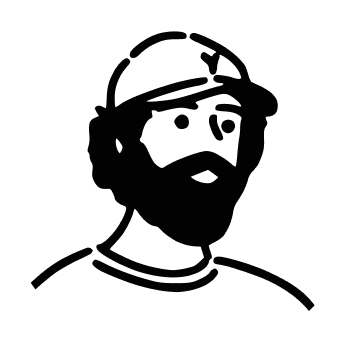
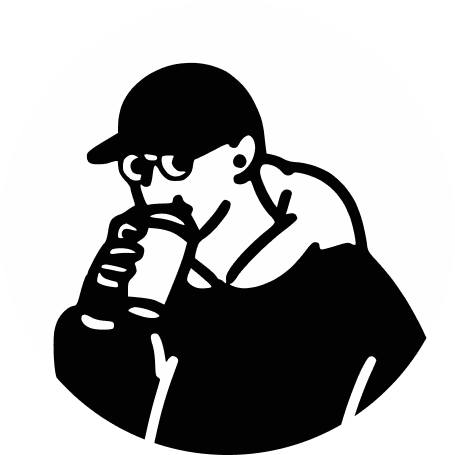
idk

diff --git a/src/components/AnimatedSignature.tsx b/src/components/AnimatedSignature.tsx
@@ -1,0 +1,98 @@
+import React, { useEffect } from 'react';
+import { StyleSheet, View } from 'react-native';
+import Svg, { Path } from 'react-native-svg';
+import Animated, {
+  useSharedValue,
+  useAnimatedProps,
+  withTiming,
+  Easing,
+} from 'react-native-reanimated';
+
+const AnimatedPath = Animated.createAnimatedComponent(Path);
+
+// This is a rough estimate. A real path length calculation would be better 
+// but for a signature, a large enough number usually works well to cover it.
+const PATH_LENGTH = 1500; 
+
+type Props = {
+  path: string;
+  onDone?: () => void;
+  color?: string;
+  strokeWidth?: number;
+};
+
+export const AnimatedSignature: React.FC<Props> = ({ 
+  path, 
+  onDone,
+  color = 'black',
+  strokeWidth = 2 
+}) => {
+  const offset = useSharedValue(PATH_LENGTH);
+
+  const animatedProps = useAnimatedProps(() => ({
+    strokeDashoffset: offset.value,
+  }));
+
+  useEffect(() => {
+    // Reset
+    offset.value = PATH_LENGTH;
+    
+    // Animate
+    offset.value = withTiming(
+      0,
+      {
+        duration: 2000, // Slightly slower for a nice writing effect
+        easing: Easing.out(Easing.quad),
+      },
+      (finished) => {
+        if (finished && onDone) {
+          // Ensure we run onDone on the JS thread
+          // runOnJS(onDone)(); // If using worklets, but here onDone is simple
+          // For safety with Reanimated 2/3:
+          // runOnJS(onDone)();
+        }
+      }
+    );
+    
+    // Call onDone with a slight delay manually if reanimated callback is tricky 
+    // or just rely on the parent to handle timing if needed.
+    const timer = setTimeout(() => {
+      if (onDone) onDone();
+    }, 2000);
+    
+    return () => clearTimeout(timer);
+  }, [offset, onDone]);
+
+  return (
+    <View style={styles.container}>
+      <Svg
+        width="100%"
+        height="100%"
+        viewBox="0 0 400 200" // Assuming standard canvas size, will need to match SignatureScreen
+        style={styles.svg}
+      >
+        <AnimatedPath
+          d={path}
+          stroke={color}
+          strokeWidth={strokeWidth}
+          fill="none"
+          strokeLinecap="round"
+          strokeLinejoin="round"
+          strokeDasharray={PATH_LENGTH}
+          animatedProps={animatedProps}
+        />
+      </Svg>
+    </View>
+  );
+};
+
+const styles = StyleSheet.create({
+  container: {
+    width: '100%',
+    height: '100%',
+  },
+  svg: {
+    width: '100%',
+    height: '100%',
+  }
+});

diff --git a/src/navigation/RootNavigator.tsx b/src/navigation/RootNavigator.tsx
@@ -4,7 +4,8 @@
  * @format
  */
 
-import React from 'react';
+import React, { useEffect } from 'react';
+import { BackHandler } from 'react-native';
 import { NavigationContainer } from '@react-navigation/native';
 import { createStackNavigator } from '@react-navigation/stack';
 
@@ -31,12 +32,26 @@ export type RootStackParamList = {
 const Stack = createStackNavigator<RootStackParamList>();
 
 const RootNavigator = () => {
+  useEffect(() => {
+    const backAction = () => {
+      return true;
+    };
+
+    const backHandler = BackHandler.addEventListener(
+      'hardwareBackPress',
+      backAction,
+    );
+
+    return () => backHandler.remove();
+  }, []);
+
   return (
     <NavigationContainer>
       <Stack.Navigator 
         initialRouteName="Intro"
         screenOptions={{ 
           headerShown: false,
+          gestureEnabled: false,
         }}
       >
         <Stack.Screen 

diff --git a/src/screens/FriendsTrackScreen.tsx b/src/screens/FriendsTrackScreen.tsx
@@ -56,7 +56,7 @@ const friendsData: Friend[] = [
   },
   {
     id: 3,
-    name: 'Rohan',
+    name: 'Alexander',//centered text in the middle of the card with text-align: center
     profileImage: require('../../Asset/ui/rohan_right.png'),
     currentlyReading: {
       bookCover: require('../../Asset/ui/image_3.png'),
@@ -318,14 +318,16 @@ const styles = StyleSheet.create({
   },
   cardName: {
     position: 'absolute',
-    left: 117,
+
     top: 18,
     fontSize: 20,
     fontWeight: '700',
     color: '#ffffff',
     letterSpacing: -1.4,
     fontFamily: 'Inter',
-    textAlign: 'right',
+    textAlign: 'center',
+    alignSelf: 'center',
+    
   },
   profileImageContainer: {
     position: 'absolute',

diff --git a/src/types/Note.ts b/src/types/Note.ts
@@ -14,3 +14,4 @@ export type Note = {
 
 
 
+

diff --git a/react-native.config.js b/react-native.config.js
@@ -8,3 +8,4 @@ module.exports = {
 
 
 
+
